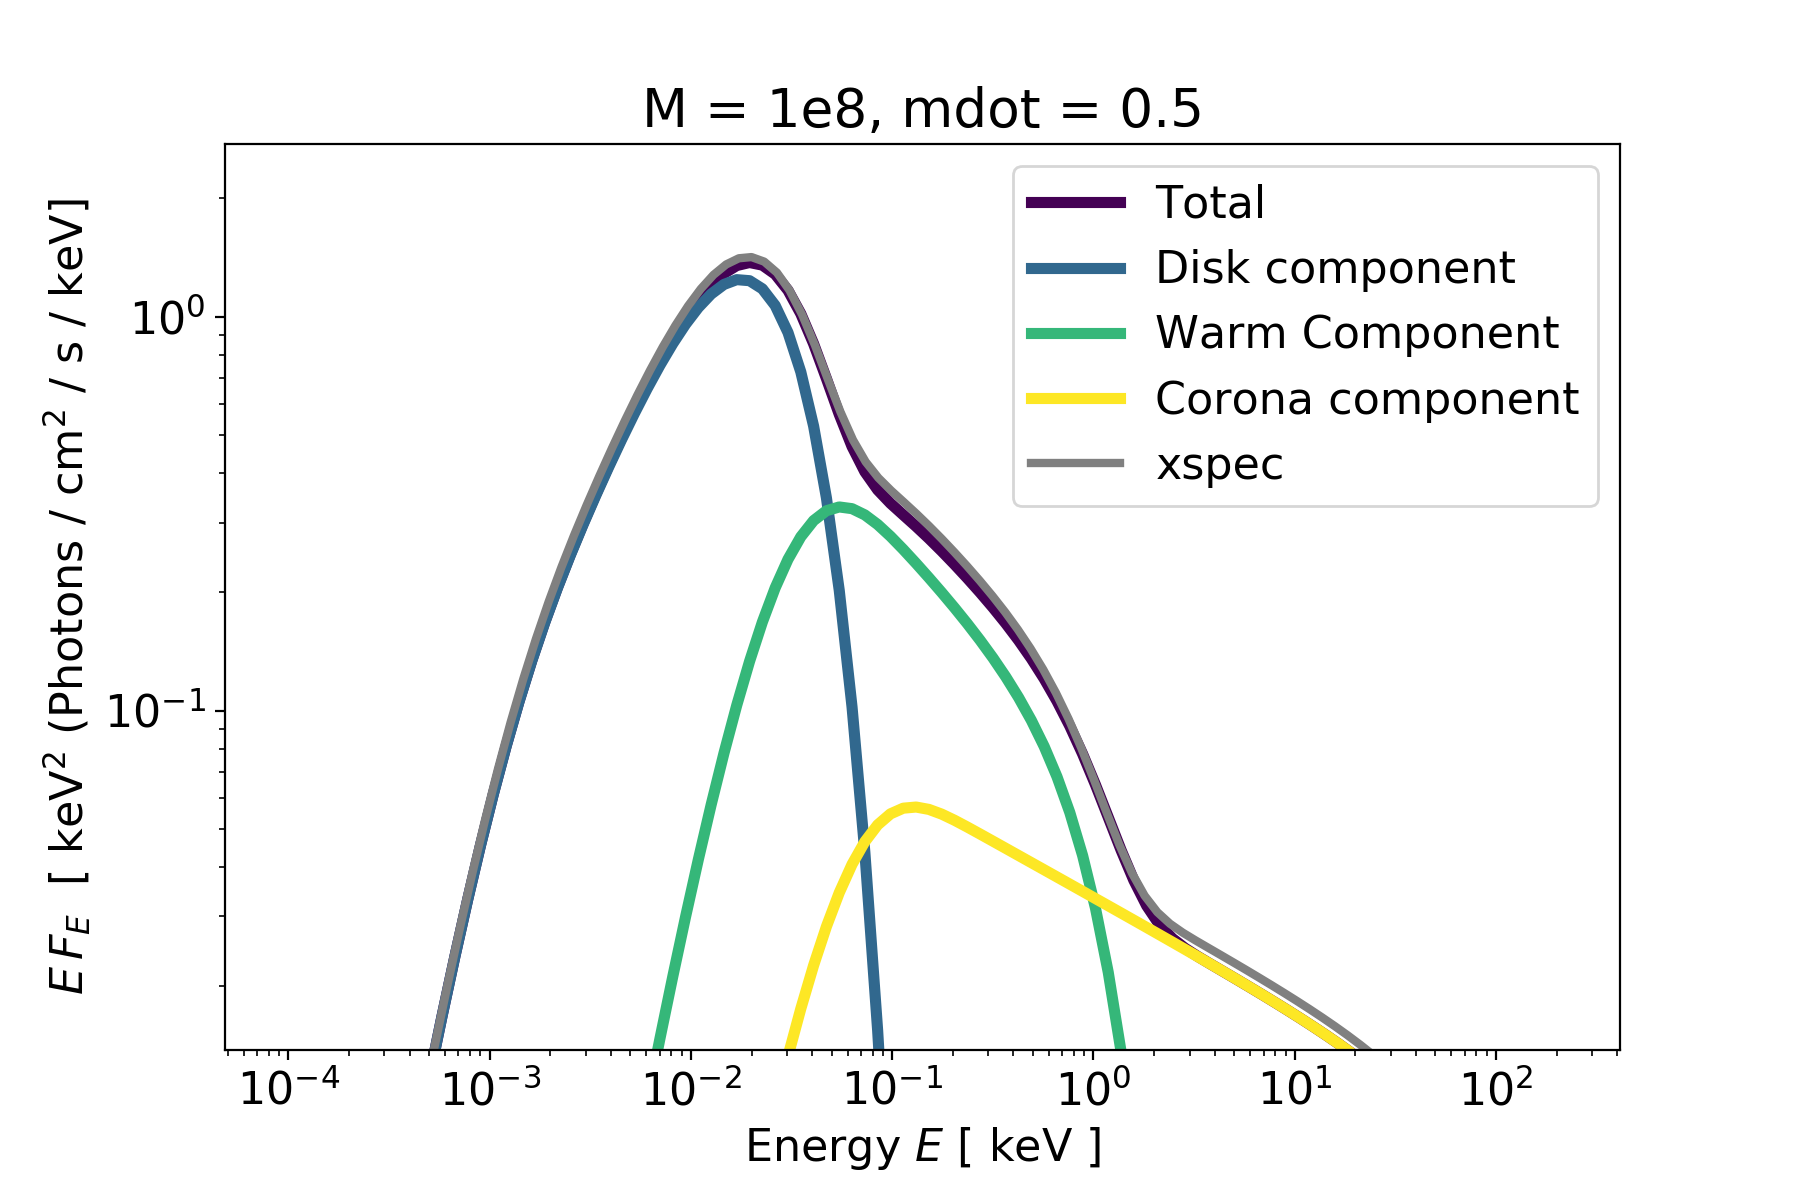
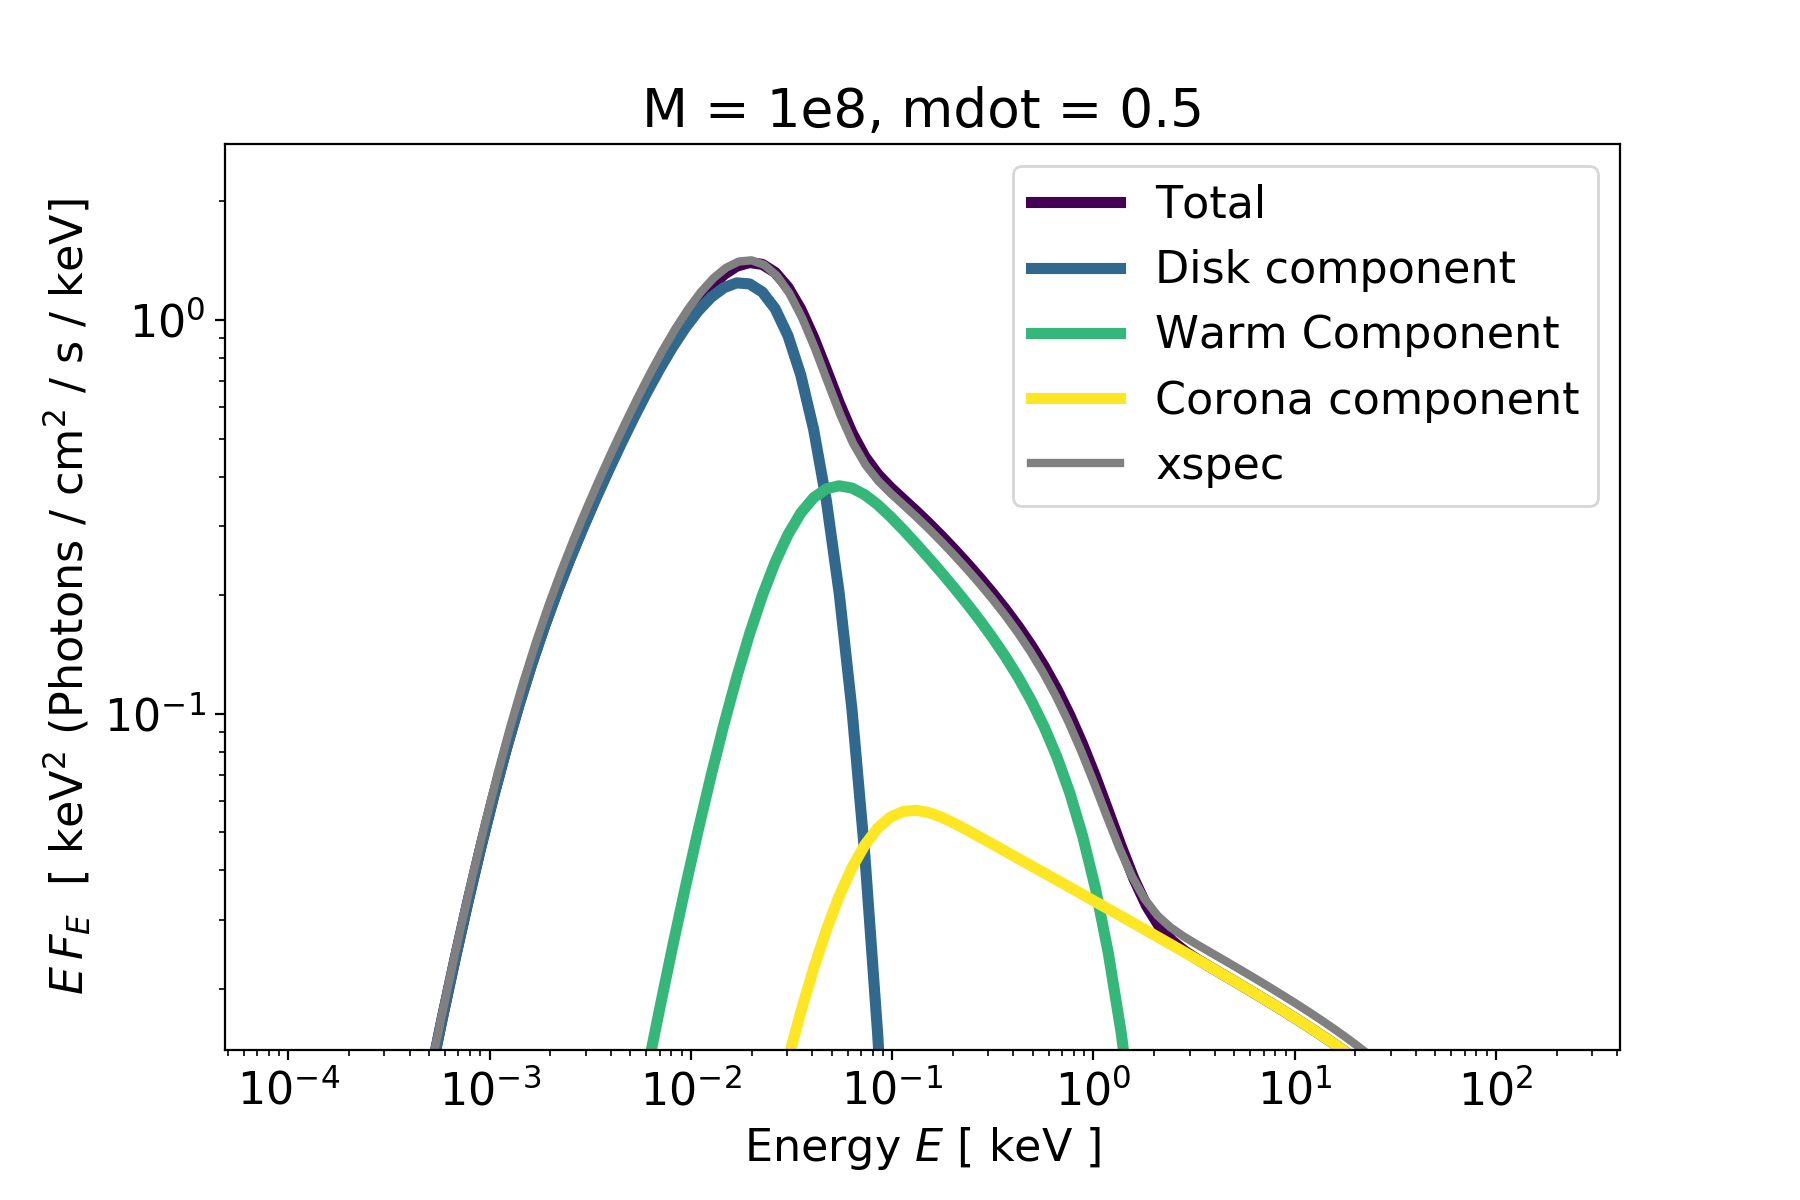
improved agreement

diff --git a/pyagn/sed.py b/pyagn/sed.py
@@ -470,7 +470,7 @@ class SED:
         warm SED in energy units, [ KeV KeV / s / KeV].
         """
 
-        r_range = np.linspace(self.corona_radius, 2. * self.corona_radius,30) # the soft-compton region extends form Rcor to 2Rcor.
+        r_range = np.linspace(self.corona_radius, 1.1 * 2. * self.corona_radius,30) # the soft-compton region extends form Rcor to 2Rcor.
         grid = np.zeros((len(r_range), len(self.energy_range)))
         for i,r in enumerate(r_range):
             # we first integrate along the relevant energies
